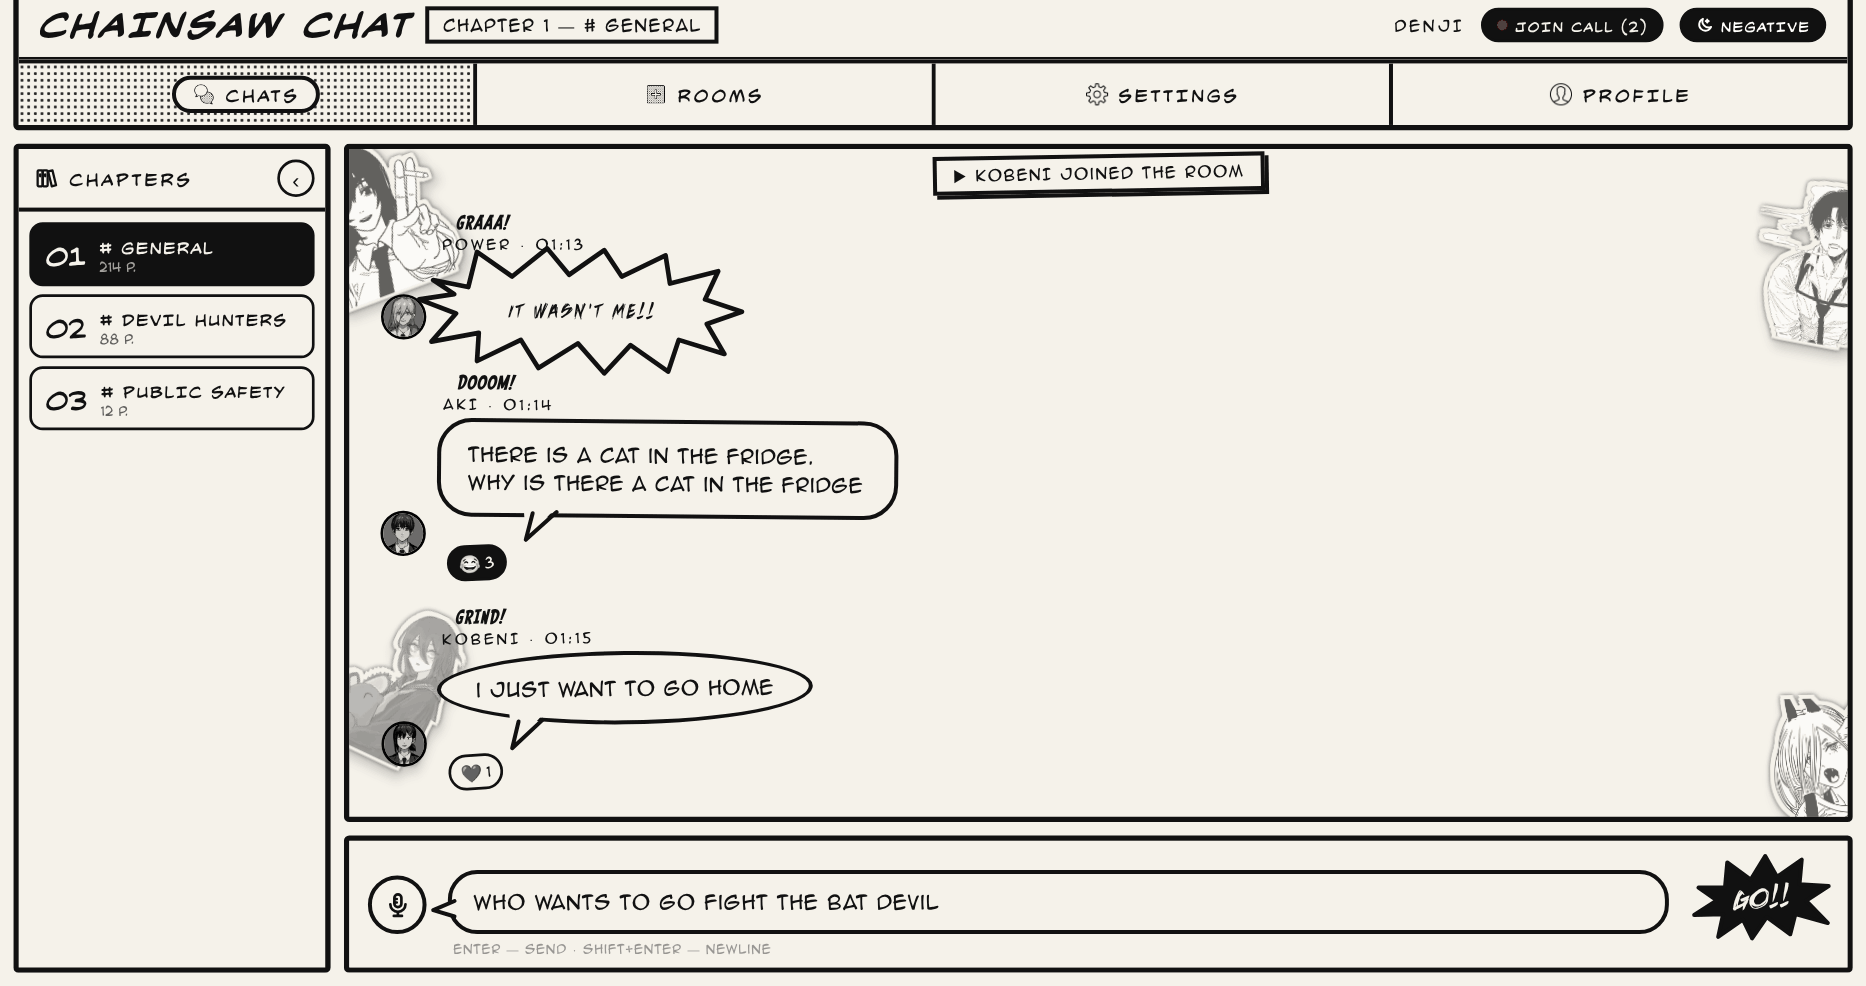
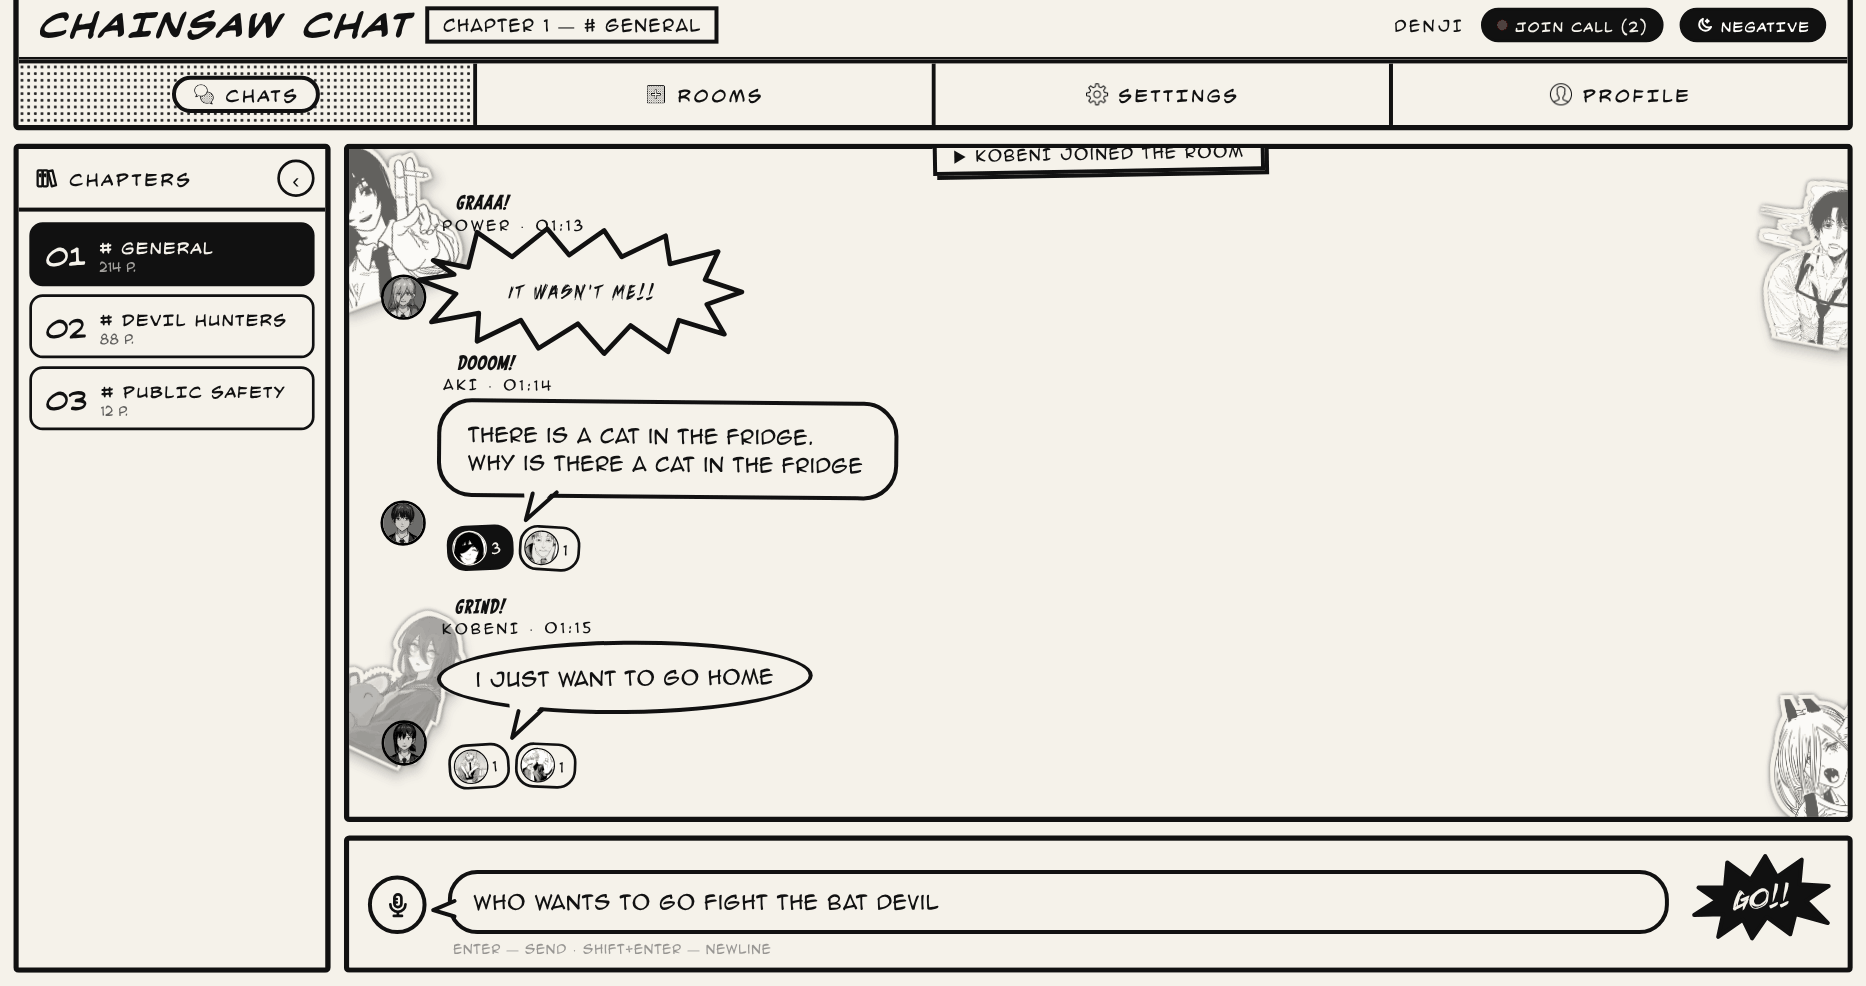
Reactions: manga stickers instead of emoji
- 7 reactions: like, f*** off, sad, neutral, sly, angry, joy — round b/w manga
  crops in client/public/reactions (~40 KB total)
- context menu shows the sticker row, message pills show the sticker + count,
  double-click = like; server accepts the new ids
- old emoji reactions already in the database still render as text
- chat screenshots in README refreshed with the new reactions

Changed region(s): [[0.1865, 0.1826, 0.4973, 0.8215], [0.4973, 0.1521, 0.6838, 0.213]]

diff --git a/client/src/components/MessageBubble.tsx b/client/src/components/MessageBubble.tsx
@@ -3,6 +3,7 @@ import { motion } from 'framer-motion'
 import { AudioPlayer } from './AudioPlayer'
 import { BalloonTail, ShoutBalloon } from './Balloon'
 import { isShout as looksLikeShout } from '../lib/sound'
+import { reactionInfo } from '../config'
 
 // kept for older imports
 export { AudioPlayer }
@@ -131,7 +132,7 @@ export default function MessageBubble({ msg, index, isOwn, theme, T, username, s
             <div
               data-tour="bubble"
               className={isOwn && !isShout ? 'tone-light' : undefined}
-              onDoubleClick={() => onReact?.('🔥')}
+              onDoubleClick={() => onReact?.('like')}
               onContextMenu={(e: React.MouseEvent<HTMLDivElement>) => {
                 e.preventDefault()
                 if (longPressFired.current) return
@@ -205,7 +206,7 @@ export default function MessageBubble({ msg, index, isOwn, theme, T, username, s
                     whileHover={{ scale: 1.12, rotate: 0 }}
                     whileTap={{ scale: 0.85 }}
                     onClick={() => onReact?.(emoji)}
-                    title={users.join(', ')}
+                    title={`${reactionInfo(emoji)?.label ?? emoji}: ${users.join(', ')}`}
                     style={{
                       display: 'flex', alignItems: 'center', gap: '3px',
                       padding: '1px 7px',
@@ -216,7 +217,12 @@ export default function MessageBubble({ msg, index, isOwn, theme, T, username, s
                       cursor: 'pointer', lineHeight: 1.6,
                     }}
                   >
-                    <span style={{ fontSize: '13px', filter: 'grayscale(1) contrast(1.3)' }}>{emoji}</span>
+                    {reactionInfo(emoji) ? (
+                      <img src={reactionInfo(emoji)!.src} alt={reactionInfo(emoji)!.label}
+                        style={{ width: '24px', height: '24px', borderRadius: '50%', objectFit: 'cover', border: '1.5px solid currentColor', background: '#fff', margin: '1px 0 1px -5px' }} />
+                    ) : (
+                      <span style={{ fontSize: '13px', filter: 'grayscale(1) contrast(1.3)' }}>{emoji}</span>
+                    )}
                     {users.length}
                   </motion.button>
                 )

diff --git a/client/src/components/ContextMenu.tsx b/client/src/components/ContextMenu.tsx
@@ -55,7 +55,7 @@ export default function ContextMenu({
             boxShadow: theme === 'dark' ? '4px 4px 0 #fff' : '4px 4px 0 #111',
             fontFamily: "'AnimeAce', sans-serif",
             fontSize: '12px',
-            width: '176px',
+            width: '282px',
             cursor: 'default'
           }}
           onClick={onClose}
@@ -68,16 +68,21 @@ export default function ContextMenu({
             borderBottom: `2px solid ${theme === 'dark' ? '#fff' : '#111'}`,
             marginBottom: '2px',
           }}>
-            {REACTIONS.map(emoji => (
-              <motion.span
-                key={emoji}
-                whileHover={{ scale: 1.35, rotate: -8 }}
+            {REACTIONS.map(r => (
+              <motion.img
+                key={r.id}
+                src={r.src}
+                alt={r.label}
+                title={r.label}
+                whileHover={{ scale: 1.5, rotate: -8, zIndex: 2 }}
                 whileTap={{ scale: 0.8 }}
-                onClick={(e) => { e.stopPropagation(); onReact(contextMenu.msg.id, emoji) }}
-                style={{ cursor: 'pointer', fontSize: '17px', lineHeight: 1 }}
-              >
-                {emoji}
-              </motion.span>
+                onClick={(e) => { e.stopPropagation(); onReact(contextMenu.msg.id, r.id) }}
+                style={{
+                  cursor: 'pointer', width: '34px', height: '34px', borderRadius: '50%',
+                  objectFit: 'cover', border: `2px solid ${theme === 'dark' ? '#fff' : '#111'}`,
+                  position: 'relative', background: '#fff',
+                }}
+              />
             ))}
           </div>
 

diff --git a/client/src/config.ts b/client/src/config.ts
@@ -14,5 +14,18 @@ export const ICE_SERVERS: RTCIceServer[] = [
   ...(TURN_URL ? [{ urls: TURN_URL.split(',').map(u => u.trim()), username: TURN_USER ?? '', credential: TURN_PASS ?? '' }] : []),
 ]
 
-// must match REACTIONS on the server
-export const REACTIONS = ['🔥', '🩸', '😂', '❤', '😱', '🪚'] as const
+// manga reaction stickers — ids must match REACTIONS on the server
+export const REACTIONS = [
+  { id: 'like',    label: 'Like',    src: '/reactions/like.webp' },
+  { id: 'fuck',    label: 'F*** off', src: '/reactions/fuck.webp' },
+  { id: 'sad',     label: 'Sad',     src: '/reactions/sad.webp' },
+  { id: 'neutral', label: 'Neutral', src: '/reactions/neutral.webp' },
+  { id: 'sly',     label: 'Sly',     src: '/reactions/sly.webp' },
+  { id: 'angry',   label: 'Angry',   src: '/reactions/angry.webp' },
+  { id: 'joy',     label: 'Joy',     src: '/reactions/joy.webp' },
+] as const
+
+export type ReactionId = typeof REACTIONS[number]['id']
+
+// old messages may still carry emoji keys (🔥, 😂 …) — those render as text
+export const reactionInfo = (key: string) => REACTIONS.find(r => r.id === key) ?? null

diff --git a/server/src/types.ts b/server/src/types.ts
@@ -25,7 +25,8 @@ export interface SocketData {
 export type Reactions = Record<string, string[]>
 
 // allowed reaction set — keeps the payload small and on-theme
-export const REACTIONS = ['🔥', '🩸', '😂', '❤', '😱', '🪚'] as const
+// reaction ids (the client draws them as manga stickers)
+export const REACTIONS = ['like', 'fuck', 'sad', 'neutral', 'sly', 'angry', 'joy'] as const
 
 export interface SendMessagePayload {
   roomId: string

diff --git a/client/src/components/Tutorial.tsx b/client/src/components/Tutorial.tsx
@@ -42,7 +42,7 @@ export const TOUR_STEPS: TourStep[] = [
     target: 'bubble,messages',
     pick: 'last',
     title: 'REACT & MORE',
-    text: 'Right-click a message (long-press on phone) to react, edit, pin or delete. Double-click drops a 🔥.',
+    text: 'Right-click a message (long-press on phone) to react, edit, pin or delete. Double-click to give a like.',
     sticker: '/stickers/makima_sit.webp',
   },
   {
